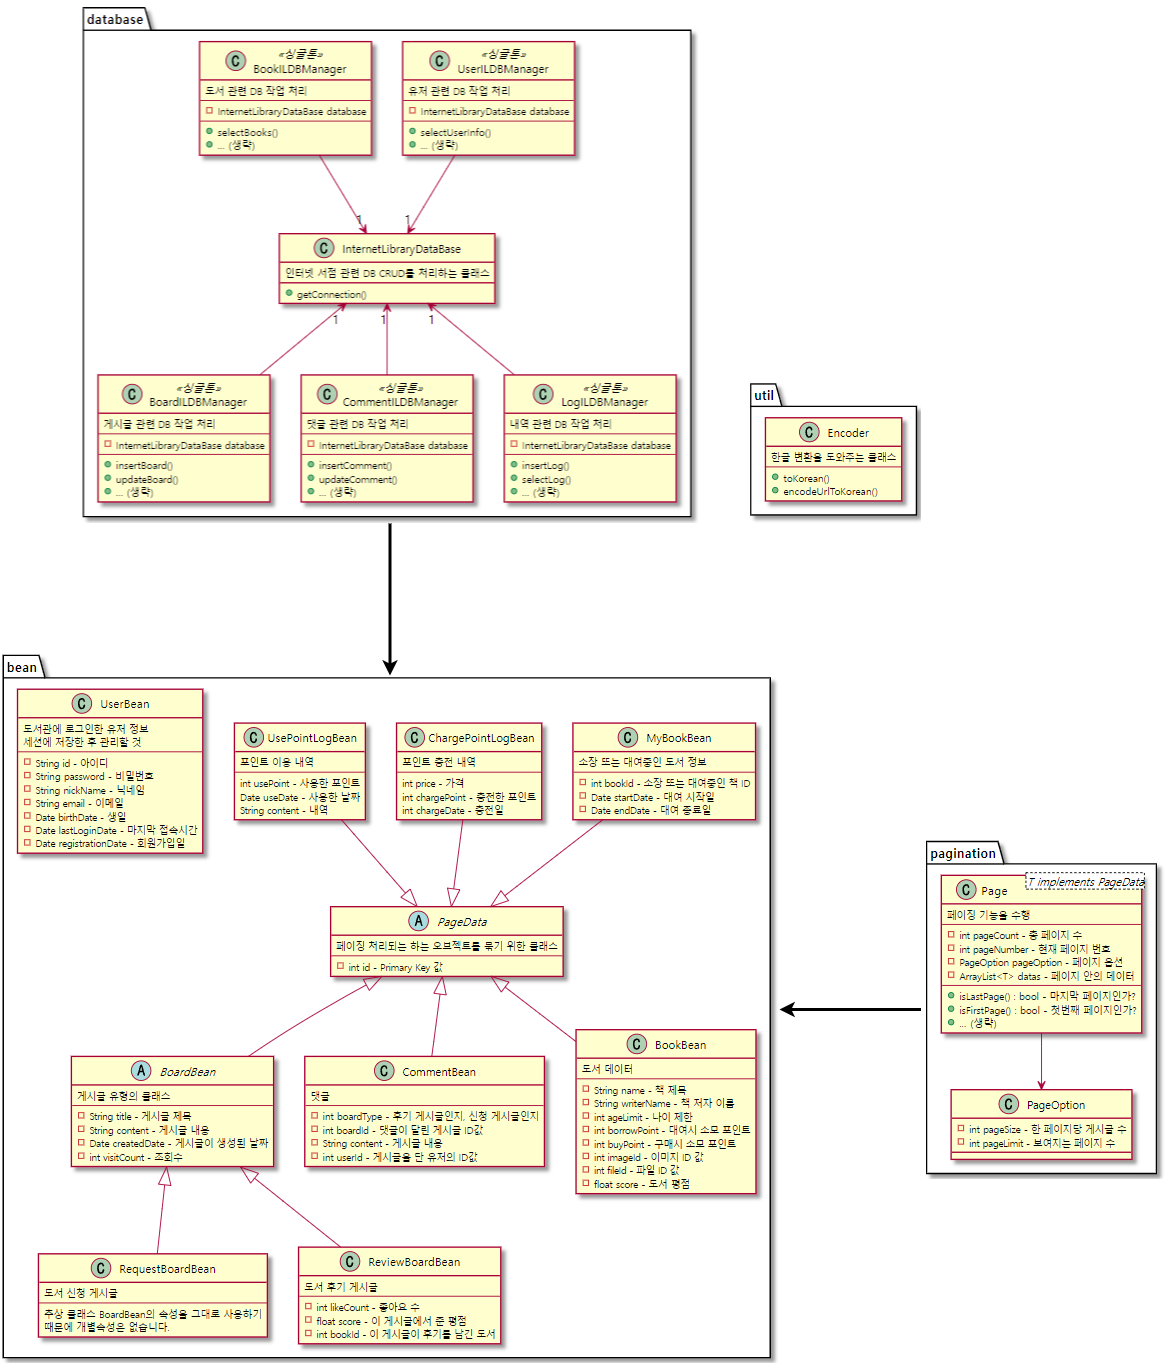
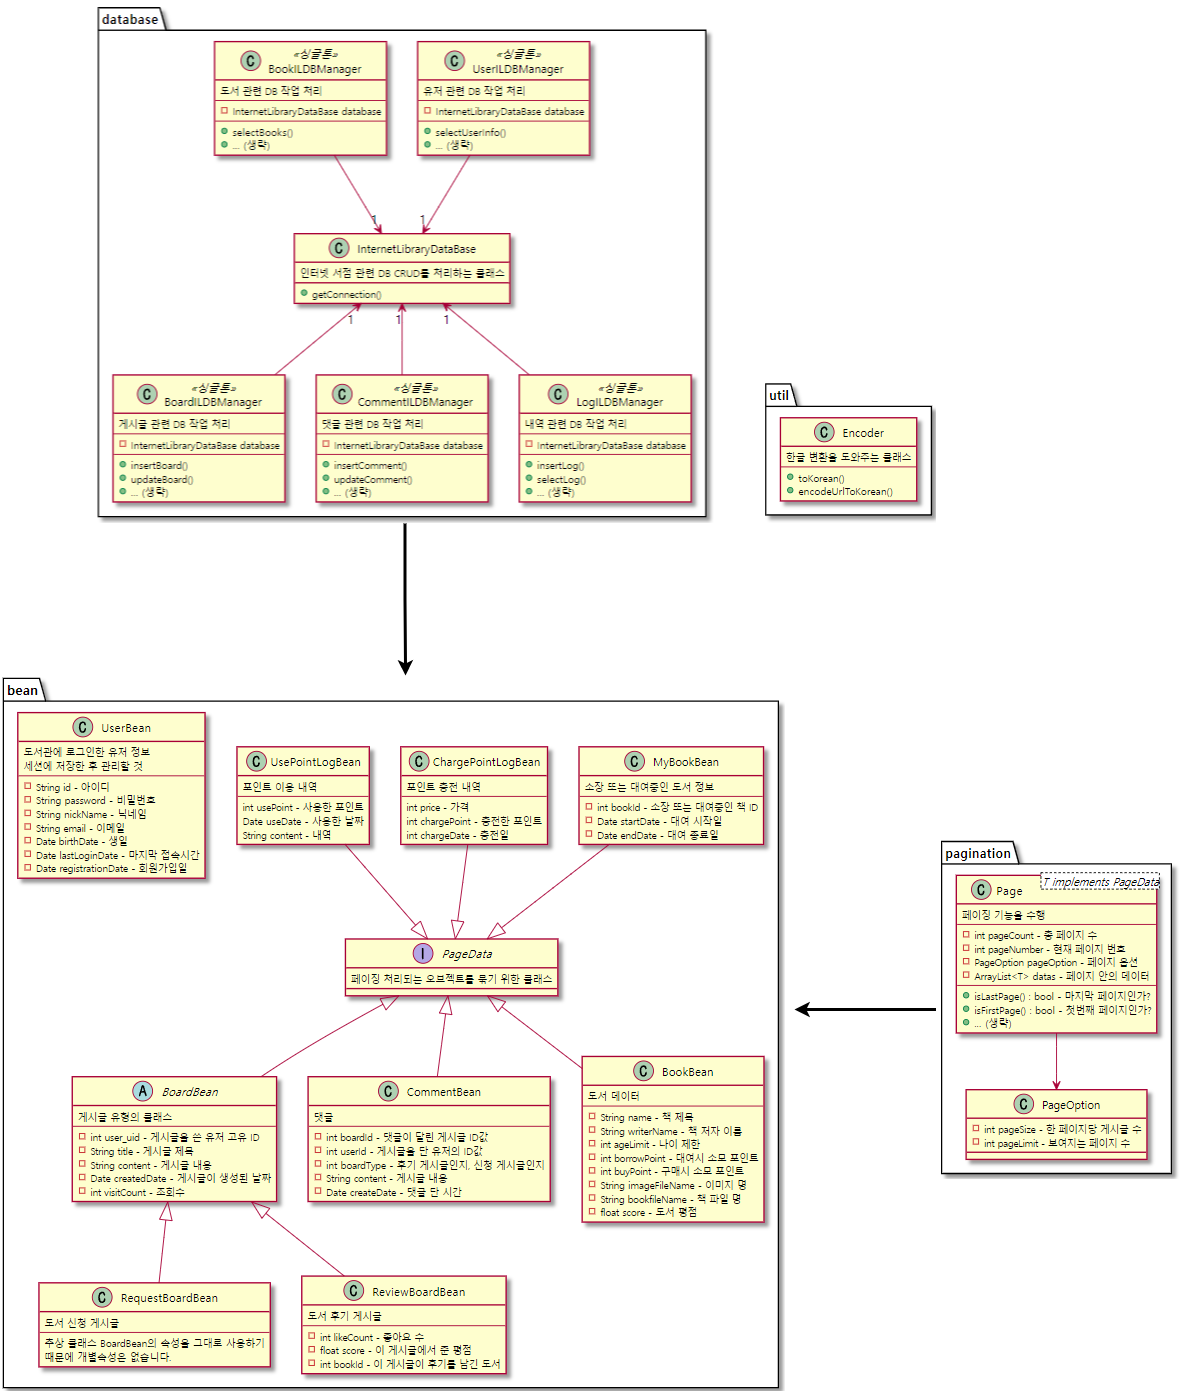
- 로그인, 회원가입 페이지 구성 - 메인페이지 헤더 일부 구성 - 클래스 다이어그램 이미지 수정 반영

Changed region(s): [[0.0, 0.0, 0.7101, 1.0], [0.7719, 0.5842, 1.0, 0.8609], [0.6484, 0.2767, 0.8027, 0.3997]]

diff --git a/Workspace/Project/WebContent/login.html b/Workspace/Project/WebContent/login.html
@@ -1,0 +1,86 @@
+<!DOCTYPE html>
+<html lang="en">
+	<head>
+		<meta charset="UTF-8" />
+		<meta http-equiv="X-UA-Compatible" content="IE=edge" />
+		<meta name="viewport" content="width=device-width, initial-scale=1.0" />
+		<title>로그인</title>
+
+		<link rel="stylesheet" href="css/bootstrap/bootstrap.css" />
+		<link rel="stylesheet" href="css/login.css" />
+	</head>
+	<body>
+		<div class="login-container">
+			<form id="login-form">
+                <div class="bg-white p-5 rounded-3 surrounded" style="width: 500px;">
+                    <div class="text-center mb-3">
+                        <h3 class="logo-text">로그인</h3>
+                    </div>
+                    <hr>
+                    <div class="d-flex gap-2">
+                        <div class="d-flex flex-column gap-2 me-auto" style="width: 300px">
+                            <div class="input-group">
+                                <span class="d-inline-block input-group-text" style="width: 100px">아이디</span>
+                                <input class="form-control" type="text" />
+                            </div>
+                            <div class="input-group">
+                                <span class="d-inline-block input-group-text" style="width: 100px">비밀번호</span>
+                                <input class="form-control" type="text" />
+                            </div>
+                        </div>
+                        <input class="btn login-btn" type="button" value="로그인" />
+                    </div>
+                    <div class="d-flex mt-1">
+                        <div class="me-auto my-auto">
+                            <input id="ck-save-id-pass" type="checkbox" />
+                            <label for="ck-save-id-pass">아이디/비밀번호 저장</label>
+                        </div>
+                        <button id="register-btn" class="btn register-btn p-1">회원가입</button>
+                    </div>
+                </div>
+				
+			</form>
+
+			<form id="register-form" style="display: none">
+                <div class="bg-white p-5 rounded-3 surrounded" style="width: 500px;">
+                    <div class="text-center mb-3">
+                        <h3 class="logo-text">회원가입</h3>
+                    </div>
+                    <hr>
+				<div class="d-flex gap-2">
+					<div class="d-flex flex-column gap-2" style="width: 400px">
+						<div class="input-group">
+							<span class="d-inline-block input-group-text" style="width: 120px">아이디</span>
+							<input class="form-control" type="text" />
+						</div>
+						<div class="input-group">
+							<span class="d-inline-block input-group-text" style="width: 120px">비밀번호</span>
+							<input class="form-control" type="text" />
+						</div>
+						<div class="input-group">
+							<span class="d-inline-block input-group-text" style="width: 120px">비밀번호 확인</span>
+							<input class="form-control" type="text" />
+						</div>
+						<div class="input-group">
+							<span class="d-inline-block input-group-text" style="width: 120px">이름</span>
+							<input class="form-control" type="text" />
+						</div>
+						<div class="input-group">
+							<span class="d-inline-block input-group-text" style="width: 120px">이메일</span>
+							<input class="form-control" type="text" />
+						</div>
+					</div>
+				</div>
+				<div class="mt-2 w-100 d-flex gap-2 d flex-row-reverse" style="width: 400px;">
+					<button id="register-ok-btn" class="btn">회원가입</button>
+					<button id="register-cancel-btn" class="btn">취소</button>
+				</div>
+            </div>
+			</form>
+		</div>
+
+		<script src="js/bootstrap/bootstrap.js"></script>
+		<script src="js/jquery/jquery-3.6.0.js"></script>
+		<script src="js/login.js"></script>
+	</body>
+</html>

diff --git a/Workspace/Project/WebContent/main.html b/Workspace/Project/WebContent/main.html
@@ -1,0 +1,54 @@
+<!DOCTYPE html>
+<html lang="en">
+	<head>
+		<meta charset="UTF-8" />
+		<meta http-equiv="X-UA-Compatible" content="IE=edge" />
+		<meta name="viewport" content="width=device-width, initial-scale=1.0" />
+		<title>메인 페이지</title>
+
+		<link rel="stylesheet" href="css/bootstrap/bootstrap.css" />
+		<link rel="stylesheet" href="css/main.css" />
+	</head>
+	<body>
+		<div class="header container-fluid" style="width: 1200px">
+			
+			<div class="row mb-2">
+                <div class="col-4">
+                    
+                </div>
+				<div class="col-4">
+                    <div class="mx-auto" style="width: 100px; height: 100px;">
+                        <img class="w-100 h-100" src="https://img.icons8.com/fluency/48/000000/rockstar-social-club.png" role="button" />
+                    </div>
+                </div>
+                <div class="col-4">
+                    <div class="d-flex align-items-end h-100">
+                        <strong>윤형도님</strong>&nbsp;안녕하세요!
+                        &nbsp;&nbsp;
+                        포인트&nbsp;:&nbsp;
+                        <a href="#" style="text-decoration: none;">500P</a>
+                        <button class="btn btn-secondary ms-2">로그아웃</button>
+                    </div>
+                    
+                </div>
+                
+			</div>
+			<div class="d-flex align-items-end justify-content-center p-0 m-0">
+				<button class="btn bg-dark text-white rounded-0 w-100">도서 등록</button>
+				<button class="btn bg-dark text-white rounded-0 w-100">도서 검색</button>
+				<button class="btn bg-dark text-white rounded-0 w-100">희망 도서 신청</button>
+				<button class="btn bg-dark text-white rounded-0 w-100">도서 후기</button>
+				<button class="btn bg-dark text-white rounded-0 w-100">포인트 충전</button>
+				<button class="btn bg-dark text-white rounded-0 w-100">마이페이지</button>
+			</div>
+		</div>
+		<div class="content">
+			<div class="left-content"></div>
+			<div class="right-content"></div>
+		</div>
+		<div class="footer"></div>
+
+		<script src="js/bootstrap/bootstrap.js"></script>
+		<script src="js/jquery/jquery-3.6.0.js"></script>
+	</body>
+</html>

diff --git a/Workspace/Project/WebContent/css/login.css b/Workspace/Project/WebContent/css/login.css
@@ -1,0 +1,74 @@
+@import url('https://fonts.googleapis.com/css2?family=Noto+Sans+KR:wght@300&display=swap');
+
+* {
+    font-family: 'Noto Sans KR', sans-serif;
+}
+
+:root {
+    --element-color: #555;
+    --text-color: #fff;
+  }
+
+body {
+    background-image: url(../images/login-bg.jpg);
+    background-repeat: no-repeat;
+    background-size: cover;
+}
+
+.input-group-text {
+    background-color: var(--element-color);
+    color: var( --text-color);
+}
+
+.surrounded {
+    border: var(--element-color) 5px solid;
+}
+
+hr {
+    background-image: linear-gradient(to right, #fff, #000, #fff);
+}
+
+.login-container {
+    display: flex;
+    align-items: center;
+    justify-content: center;
+    position: fixed;
+    width: 500px;
+    height: 500px;
+    top: 50%;
+    left: 50%;
+    -webkit-transform: translate(-50%, -50%);
+    transform: translate(-50%, -50%);
+}
+
+.login-btn {
+    background-color: var(--element-color);
+    color: white;
+    width: 80px;
+}
+
+.register-btn {
+    width: 80px;
+    background-color: var(--element-color);
+    color: white;
+}
+
+#ck-save-id-pass {
+    margin-top: auto;
+    margin-bottom: auto;
+}
+
+#register-ok-btn {
+    background-color: var(--element-color);
+    color: white;
+}
+
+#register-cancel-btn {
+    background-color:slategray;
+    color: white;
+}
+
+
+.logo-text {
+    font-weight: bold;
+}

diff --git a/Workspace/Project/WebContent/js/login.js b/Workspace/Project/WebContent/js/login.js
@@ -1,0 +1,14 @@
+$(() => {
+
+    $("#register-btn").on("click", (e) => {
+        $("#login-form").fadeOut(100);
+        $("#register-form").delay(100).fadeIn(100);
+        e.preventDefault();
+    });
+
+    $("#register-cancel-btn").on("click", (e) => {
+        $("#register-form").fadeOut(100);
+        $("#login-form").delay(100).fadeIn(100);
+        e.preventDefault();
+    });
+});

diff --git a/Workspace/Project/WebContent/css/main.css b/Workspace/Project/WebContent/css/main.css
@@ -1,0 +1,3 @@
+.col {
+    padding: 0;
+}
